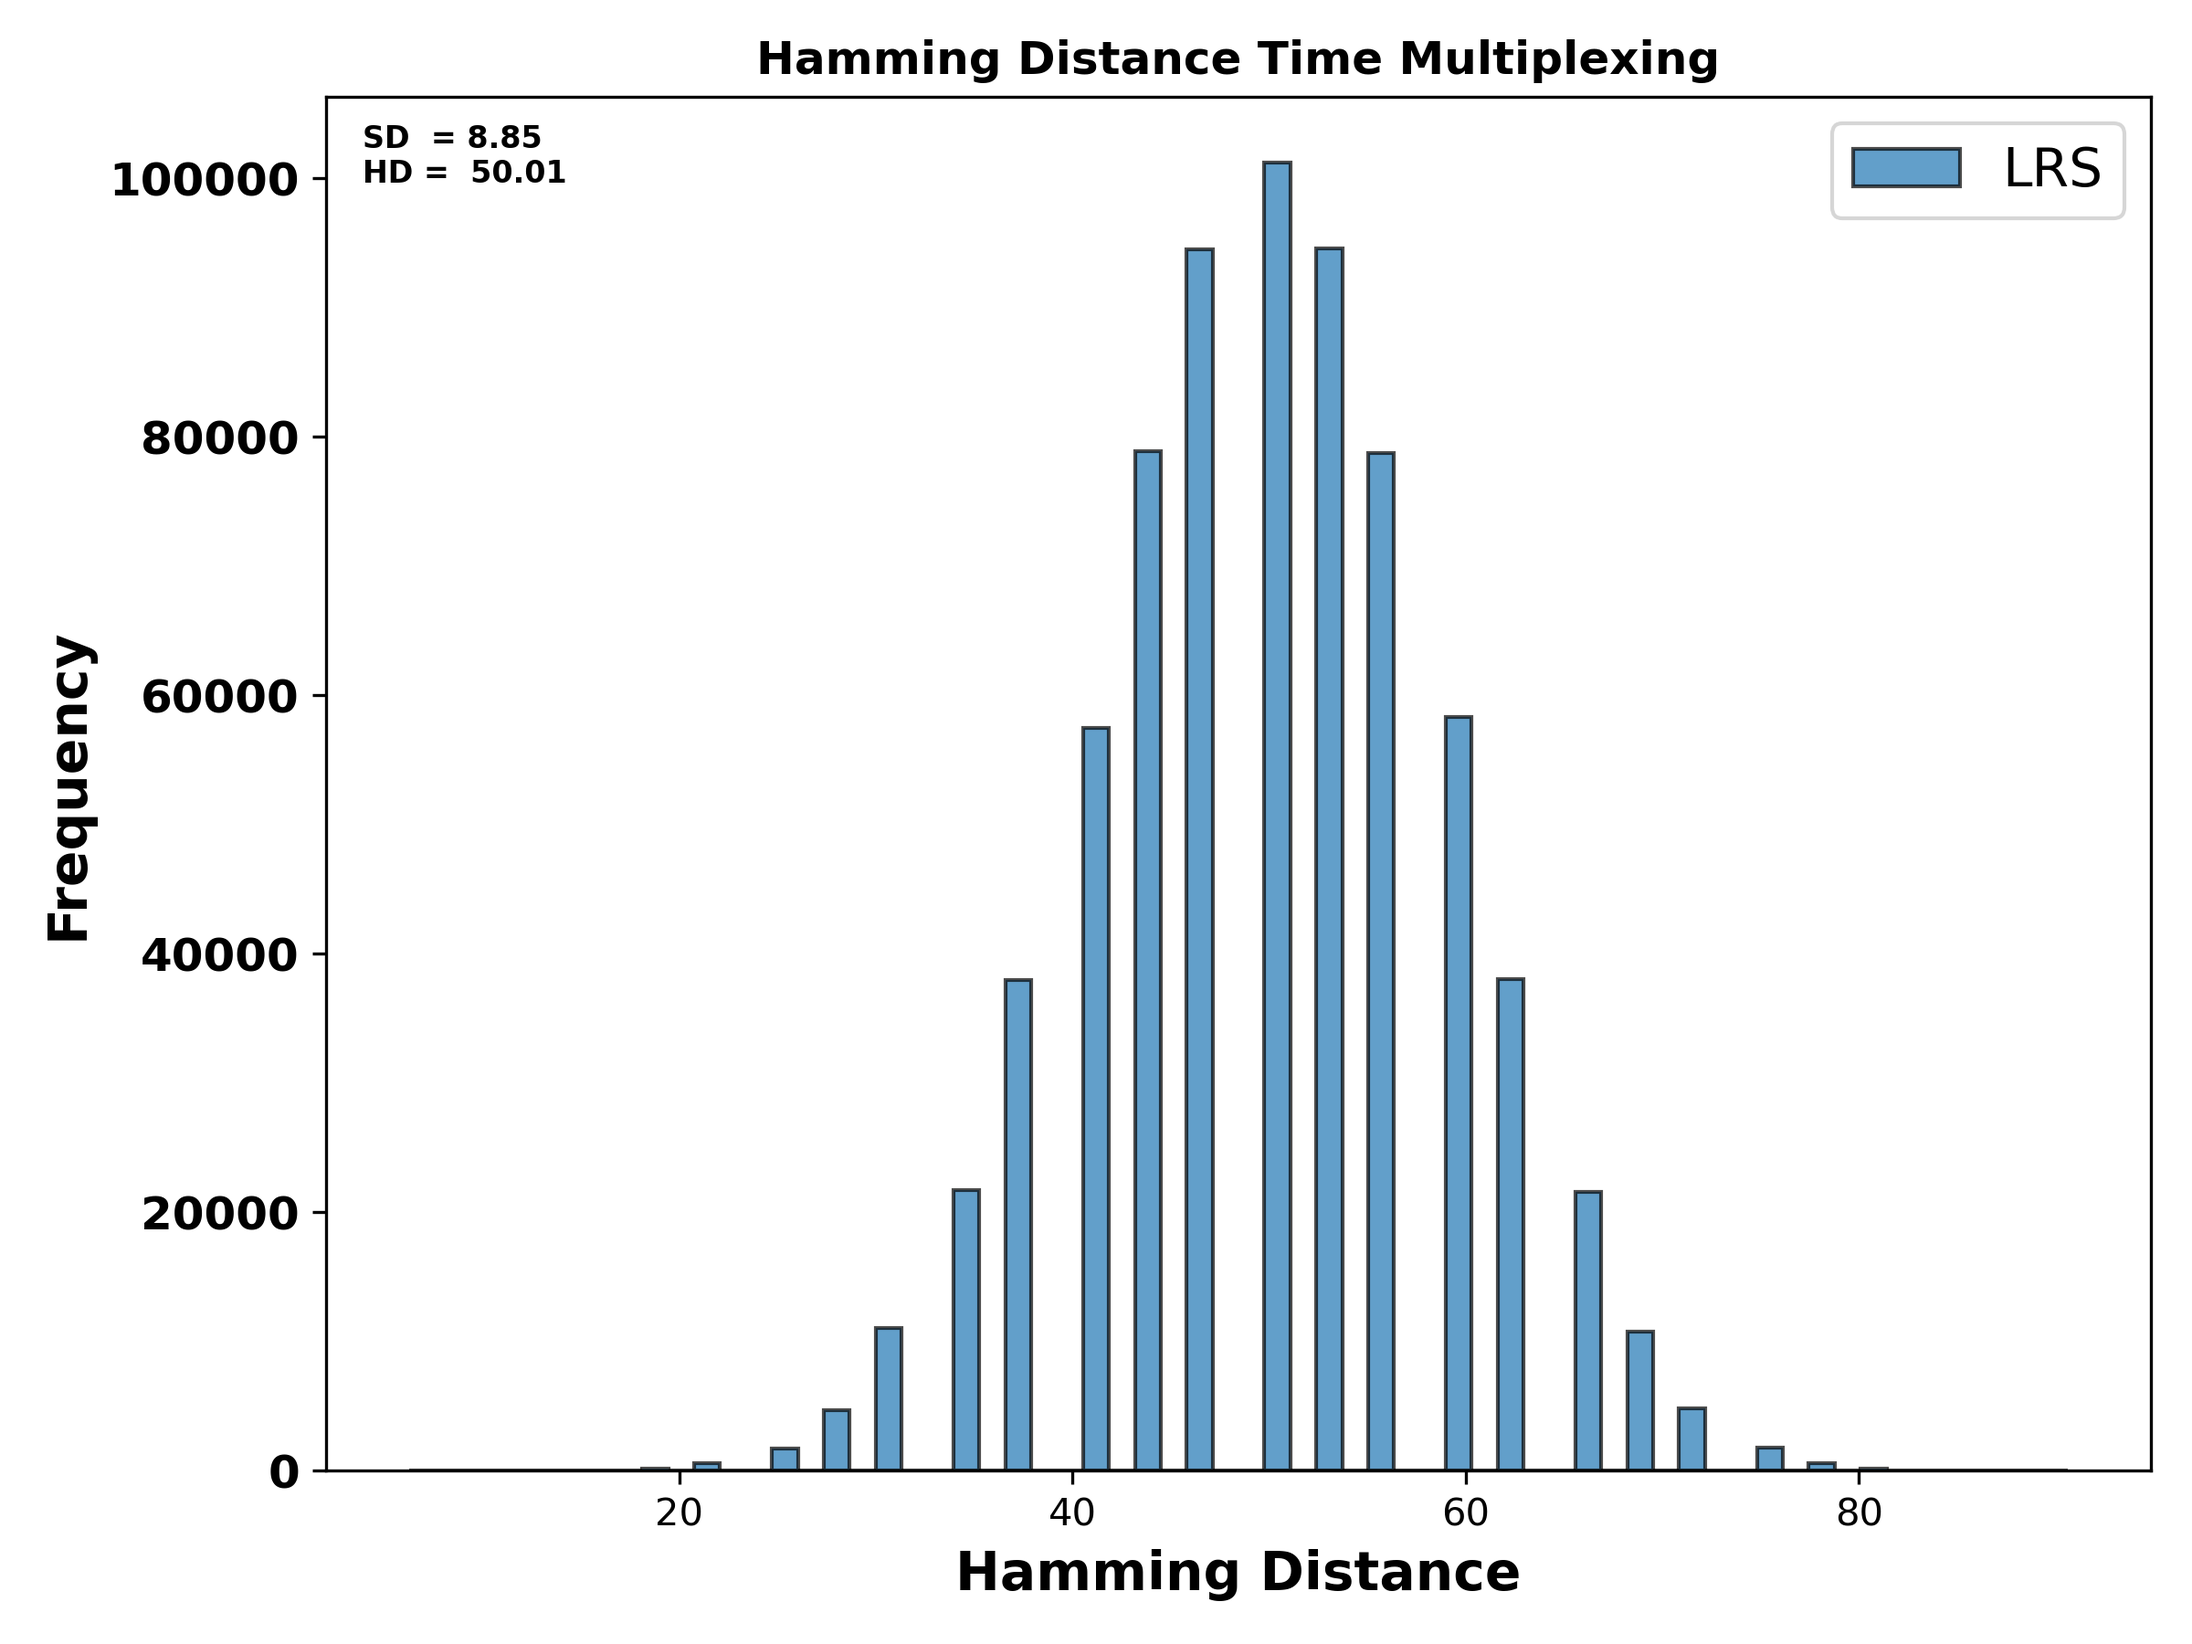
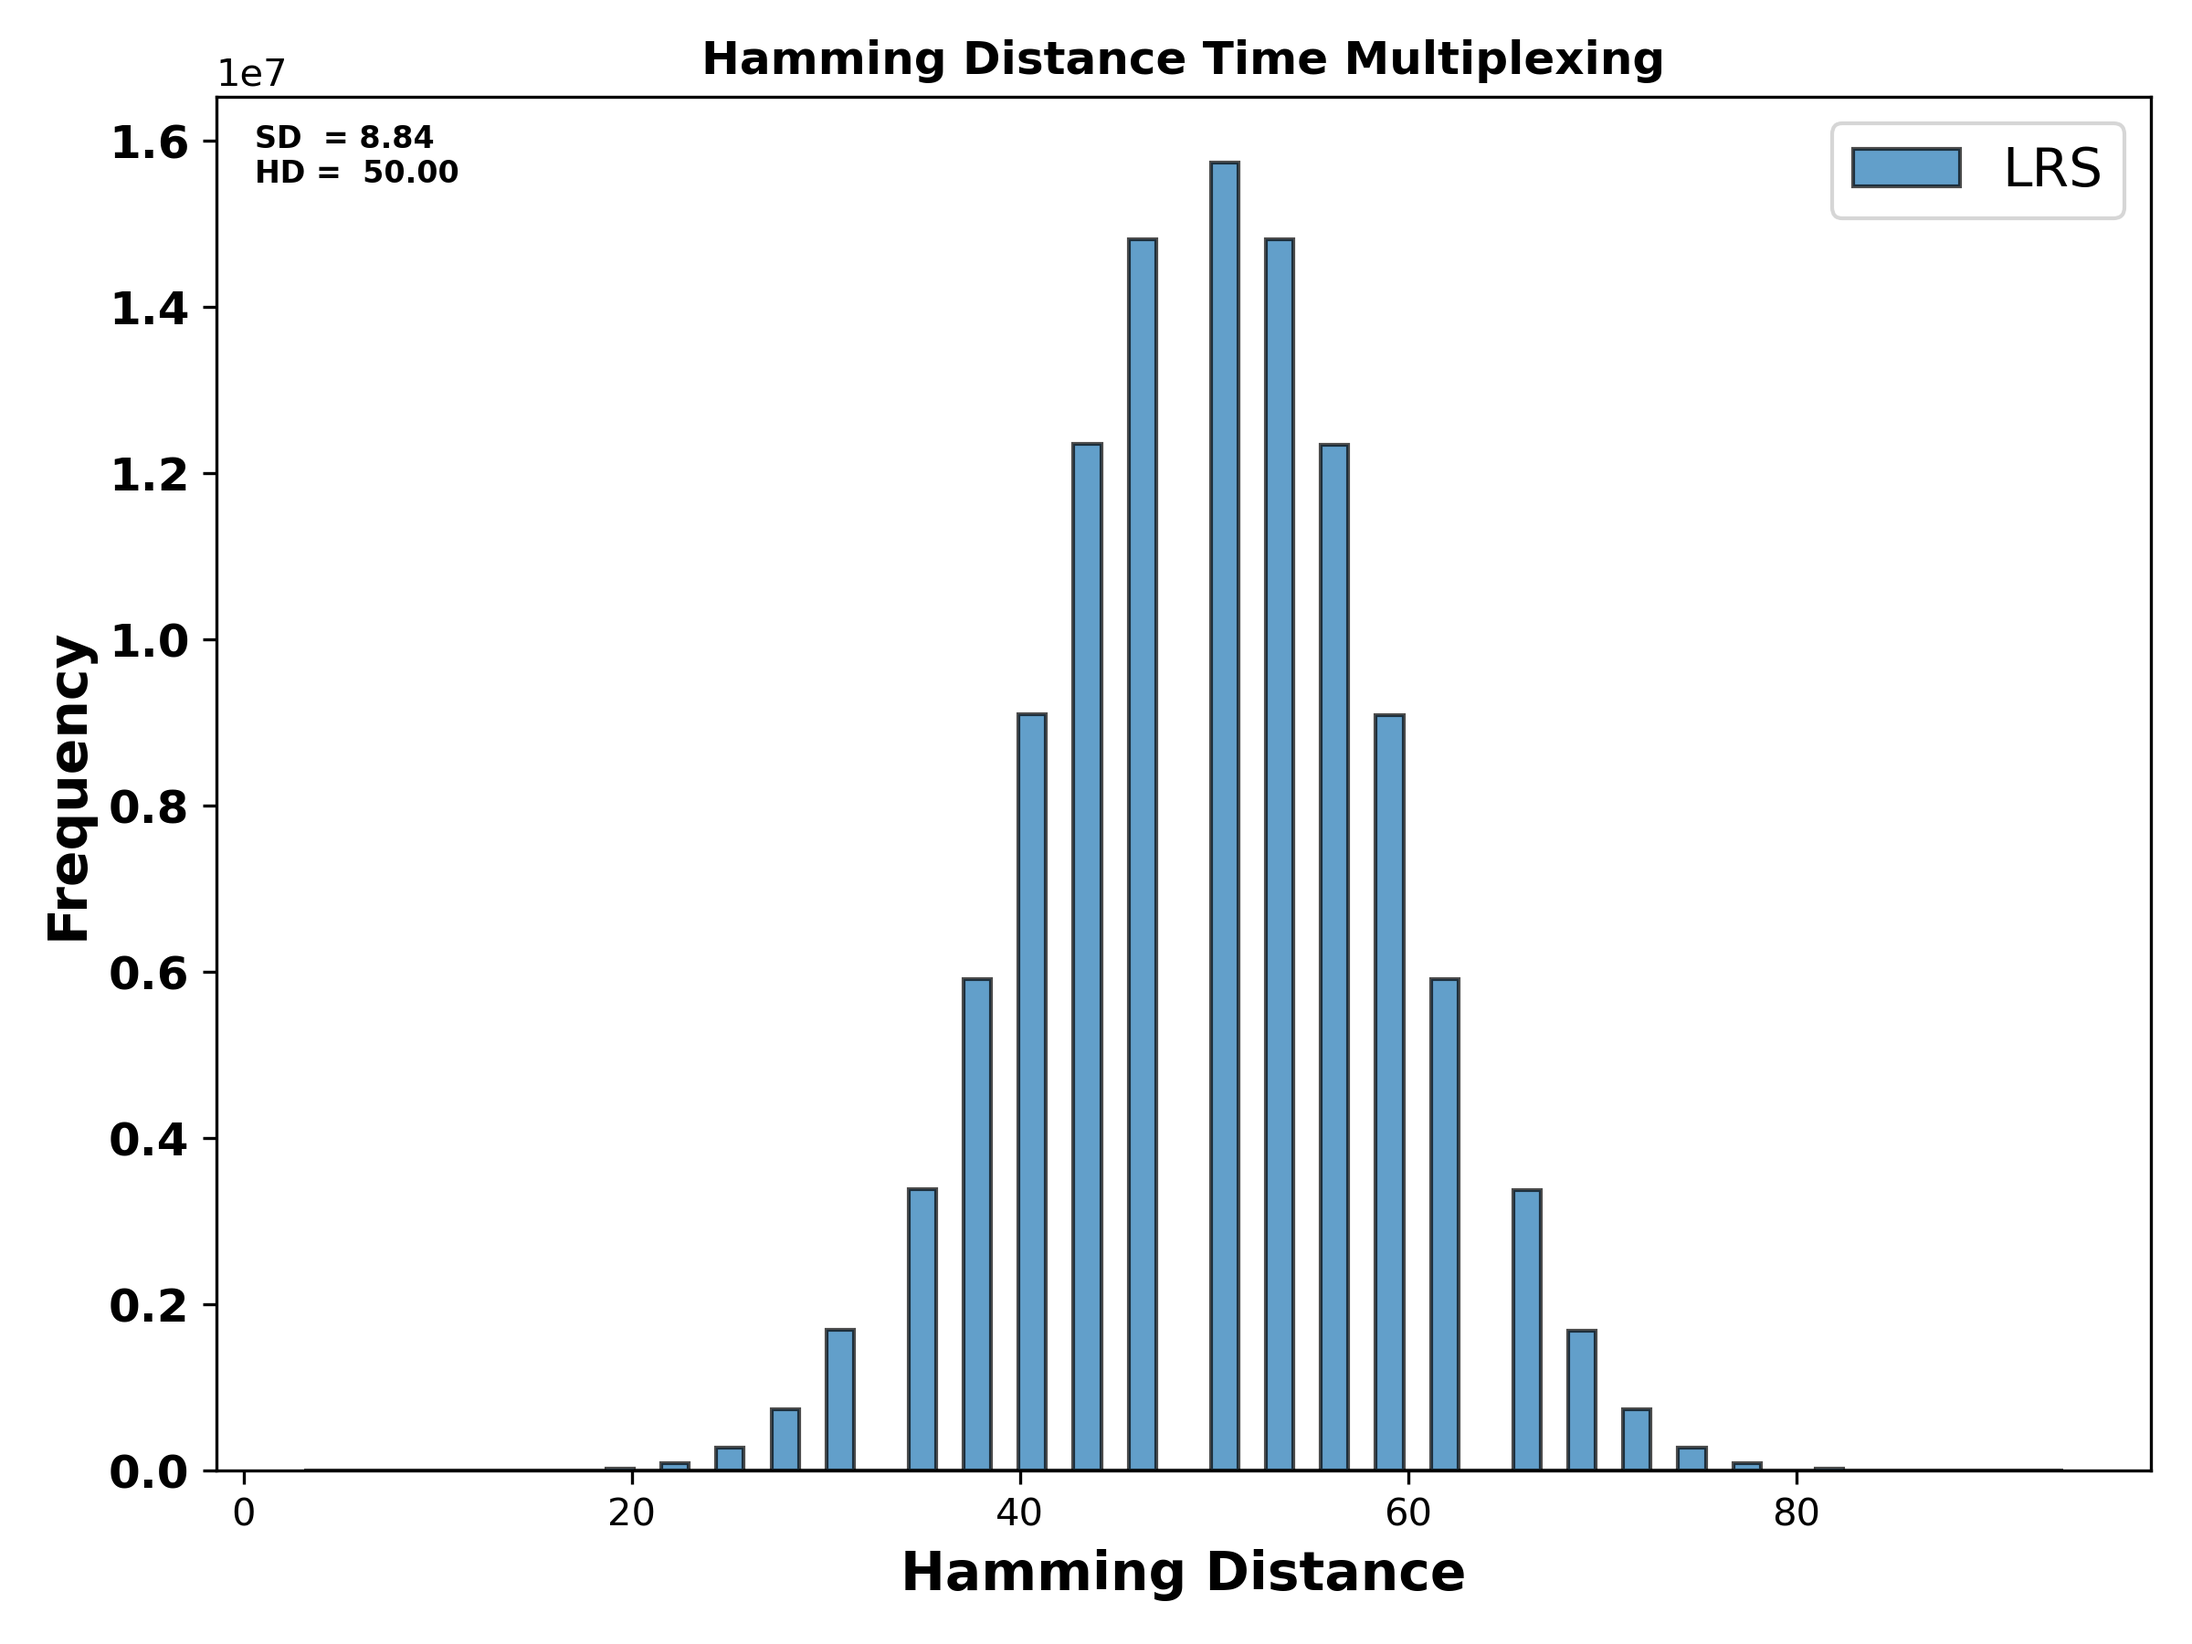
lab main

diff --git a/hamming_distance_cal.py b/hamming_distance_cal.py
@@ -110,7 +110,8 @@ class HammingDistanceCalculator:
         plt.tight_layout()
         plt.savefig(f'./results/HD/HD_{architectire}({state}).png', format='PNG', dpi=300)
 
-        # time.sleep(20)
+        distances = []
+        time.sleep(5)
         # Show the plot
         # plt.show()
         # plt.show(block=False)
@@ -130,7 +131,7 @@ if __name__ == "__main__":
     # state = "HRS"
     state = ["LRS","HRS"]
 
-    noOfRes = 1200
+    noOfRes = 15000
 
     for i in range(2):
         architectire = arch[i]
